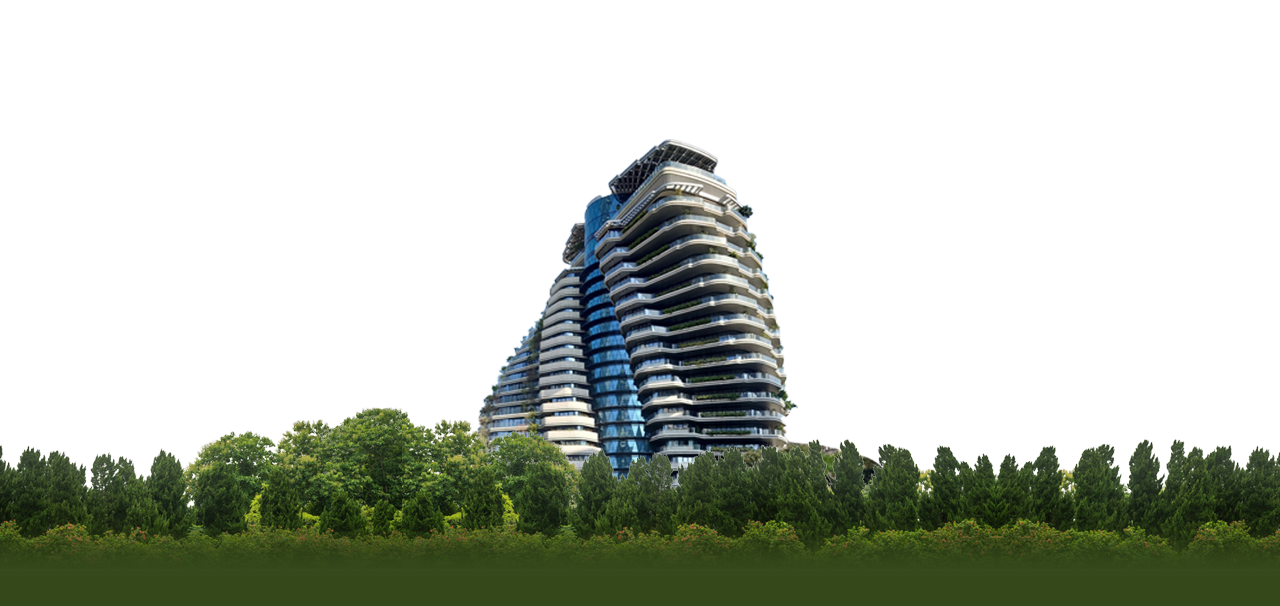
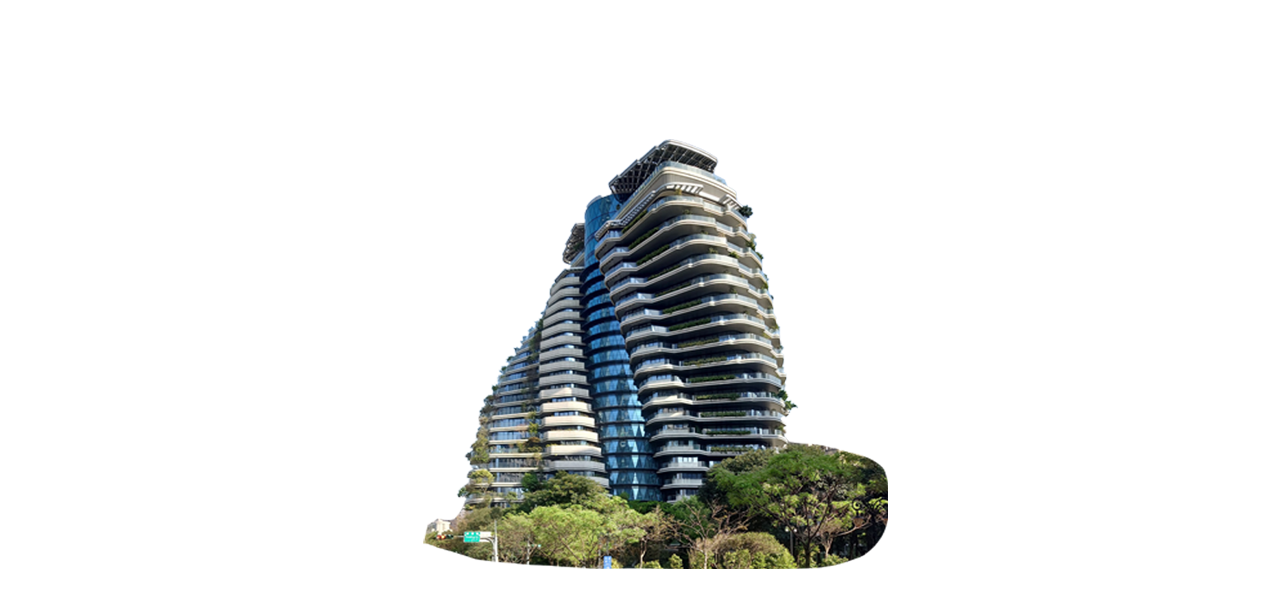
refactor: split header building and trees into separate layers
- Split Header1-Top into Header1-Top (building) and Header1-1-TopTrees (trees)
- Trees stretch full width with object-cover
- Building stays centered with object-contain
- Prevents building distortion when stretching

diff --git a/out/index.html b/out/index.html
@@ -1,6 +1,6 @@
-<!DOCTYPE html><html lang="zh-TW"><head><meta charSet="utf-8"/><meta name="viewport" content="width=device-width, initial-scale=1"/><link rel="preload" as="image" href="/header/Header4-Bottom.png"/><link rel="preload" as="image" href="/header/Header1-Top.png"/><link rel="preload" as="image" href="/header/Header3-Text.png"/><link rel="preload" as="image" href="/header/Header2-CTA.png"/><link rel="preload" as="image" href="/header/mobile/mHeader4-Bottom.png"/><link rel="preload" as="image" href="/header/mobile/mHeader1-Top.png"/><link rel="preload" as="image" href="/header/mobile/mHeader3-Text.png"/><link rel="preload" as="image" href="/header/mobile/mHeader2-CTA.png"/><link rel="stylesheet" href="/_next/static/css/6be26da21b6315d6.css" data-precedence="next"/><link rel="preload" as="script" fetchPriority="low" href="/_next/static/chunks/webpack-c8441f2d519541e3.js"/><script src="/_next/static/chunks/fd9d1056-87da80e0c187477b.js" async=""></script><script src="/_next/static/chunks/117-632973ba55688f62.js" async=""></script><script src="/_next/static/chunks/main-app-b4bacf65461df947.js" async=""></script><script src="/_next/static/chunks/app/page-3c75d446f0727e7b.js" async=""></script><title>救救2515 - 翻轉中工</title><meta name="description" content="以實際行動翻轉經營，強化公司治理，並提升營運績效"/><script src="/_next/static/chunks/polyfills-42372ed130431b0a.js" noModule=""></script></head><body><main class="min-h-screen bg-white"><section class="relative w-full transition-opacity duration-[800ms]" style="opacity:0"><div class="hidden md:block relative w-full" style="aspect-ratio:1268 / 460"><img src="/header/Header4-Bottom.png" alt="Background" class="absolute top-0 left-0 w-full h-full" style="object-fit:fill"/><img src="/header/Header1-Top.png" alt="Foreground" class="absolute top-0 left-0 w-full h-full" style="object-fit:fill"/><img src="/header/Header3-Text.png" alt="Title" class="absolute top-0 left-0 w-full h-full" style="object-fit:fill"/><img src="/header/Header2-CTA.png" alt="CTA" class="absolute top-0 left-0 w-full h-full" style="object-fit:fill"/></div><div class="md:hidden relative w-full"><img src="/header/mobile/mHeader4-Bottom.png" alt="Background" class="w-full block"/><img src="/header/mobile/mHeader1-Top.png" alt="Foreground" class="absolute top-0 left-0 w-full"/><img src="/header/mobile/mHeader3-Text.png" alt="Title" class="absolute top-0 left-0 w-full"/><img src="/header/mobile/mHeader2-CTA.png" alt="CTA" class="absolute top-0 left-0 w-full"/></div></section><section class="w-full" style="background:#0a1628"><div class="w-full grid md:grid-cols-2"><div class="px-8 py-10 md:px-16 md:py-12" style="background:radial-gradient(ellipse 140px 70px at 15% 20%, rgba(255,255,255,0.75) 0%, transparent 65%),
-              radial-gradient(ellipse 90px 45px at 32% 15%, rgba(255,255,255,0.55) 0%, transparent 65%),
-              radial-gradient(ellipse 110px 55px at 65% 35%, rgba(255,255,255,0.45) 0%, transparent 65%),
-              radial-gradient(ellipse 70px 35px at 80% 20%, rgba(255,255,255,0.5) 0%, transparent 65%),
-              radial-gradient(ellipse 80px 40px at 50% 60%, rgba(255,255,255,0.3) 0%, transparent 65%),
-              linear-gradient(180deg, #6bb8d8 0%, #9dd0e8 50%, #b8dff0 100%)"><p class="font-bold leading-snug mb-4" style="font-size:clamp(18px, 2.2vw, 26px);color:#0d2a4a">寶佳入主華建後<br/>改善經營股價翻倍</p><p class="font-black leading-none" style="color:#1a3f6e;font-size:clamp(80px, 13vw, 110px)">0<!-- -->%</p><p class="mt-3 text-sm" style="color:#334455">每股$15至每股$60</p></div><div class="px-8 py-10 md:px-16 md:py-12" style="background:rgba(26, 26, 26, 0.92)"><p class="text-white font-bold leading-snug mb-4" style="font-size:clamp(18px, 2.2vw, 26px)">中工市場派經營不當<br/>過去10年股價平均</p><p class="font-black leading-none" style="color:#4A7FB5;font-size:clamp(80px, 13vw, 110px)">$<!-- -->0.00</p><p class="mt-3 text-sm" style="color:#AAAAAA">2015/11 至 2025/10</p></div></div><div class="w-full py-4 px-4 text-center" style="background:#2E7BBF"><p class="text-white font-black tracking-wide" style="font-size:clamp(20px, 3vw, 30px)">如何選擇，股東的眼睛是雪亮的</p></div></section><section class="w-full py-16 px-4" style="background:linear-gradient(180deg, #dbeafe, #ffffff)"><div class="max-w-3xl mx-auto"><div class="flex items-center gap-4 mb-12"><div class="flex-1 h-px bg-blue-400"></div><h2 class="text-2xl md:text-3xl font-bold text-blue-900 whitespace-nowrap">翻轉中工：加減乘除</h2><div class="flex-1 h-px bg-blue-400"></div></div><div class="space-y-6"><div class="border-l-4 border-blue-600 pl-6 py-4 transition-all duration-700" style="opacity:0;transform:translateY(24px);transition-delay:0ms"><p class="text-lg md:text-xl text-gray-800"><span class="font-bold text-blue-700 text-2xl mr-2">加</span>：<!-- -->加入寶佳專業經營，活化中工</p></div><div class="border-l-4 border-blue-600 pl-6 py-4 transition-all duration-700" style="opacity:0;transform:translateY(24px);transition-delay:150ms"><p class="text-lg md:text-xl text-gray-800"><span class="font-bold text-blue-700 text-2xl mr-2">減</span>：<!-- -->減少既有中工罰款醜習，改善公司治理</p></div><div class="border-l-4 border-blue-600 pl-6 py-4 transition-all duration-700" style="opacity:0;transform:translateY(24px);transition-delay:300ms"><p class="text-lg md:text-xl text-gray-800"><span class="font-bold text-blue-700 text-2xl mr-2">乘</span>：<!-- -->乘倍效應，實現華建中工乘效</p></div><div class="border-l-4 border-blue-600 pl-6 py-4 transition-all duration-700" style="opacity:0;transform:translateY(24px);transition-delay:450ms"><p class="text-lg md:text-xl text-gray-800"><span class="font-bold text-blue-700 text-2xl mr-2">除</span>：<!-- -->去除重大賄賂與爭議事件，維護誠信經營</p></div></div></div></section><footer class="w-full py-12 px-4 text-center" style="background:#0a1628"><div class="max-w-md mx-auto"><img src="/header/mobile/mHeader2-CTA.png" alt="LINE QR Code" class="mx-auto mb-6 w-full max-w-sm object-contain"/><a href="https://line.me/R/ti/p/@452zsagz" target="_blank" rel="noopener noreferrer" class="inline-block bg-green-600 text-white text-sm font-bold px-4 py-1 rounded-full mb-4 hover:bg-green-500 transition-colors">@99-2515</a><p class="text-gray-300 text-sm md:text-base mb-6">以實際行動翻轉經營，強化公司治理，並提升營運績效</p><p class="text-gray-500 text-xs">© 2025 救救2515</p></div></footer></main><script src="/_next/static/chunks/webpack-c8441f2d519541e3.js" async=""></script><script>(self.__next_f=self.__next_f||[]).push([0]);self.__next_f.push([2,null])</script><script>self.__next_f.push([1,"1:HL[\"/_next/static/css/6be26da21b6315d6.css\",\"style\"]\n"])</script><script>self.__next_f.push([1,"2:I[2846,[],\"\"]\n4:I[9107,[],\"ClientPageRoot\"]\n5:I[7340,[\"931\",\"static/chunks/app/page-3c75d446f0727e7b.js\"],\"default\",1]\n6:I[4707,[],\"\"]\n7:I[6423,[],\"\"]\n9:I[1060,[],\"\"]\na:[]\n0:[\"$\",\"$L2\",null,{\"buildId\":\"OLgYKb7otLPdOh0TRo6im\",\"assetPrefix\":\"\",\"urlParts\":[\"\",\"\"],\"initialTree\":[\"\",{\"children\":[\"__PAGE__\",{}]},\"$undefined\",\"$undefined\",true],\"initialSeedData\":[\"\",{\"children\":[\"__PAGE__\",{},[[\"$L3\",[\"$\",\"$L4\",null,{\"props\":{\"params\":{},\"searchParams\":{}},\"Component\":\"$5\"}],null],null],null]},[[[[\"$\",\"link\",\"0\",{\"rel\":\"stylesheet\",\"href\":\"/_next/static/css/6be26da21b6315d6.css\",\"precedence\":\"next\",\"crossOrigin\":\"$undefined\"}]],[\"$\",\"html\",null,{\"lang\":\"zh-TW\",\"children\":[\"$\",\"body\",null,{\"children\":[\"$\",\"$L6\",null,{\"parallelRouterKey\":\"children\",\"segmentPath\":[\"children\"],\"error\":\"$undefined\",\"errorStyles\":\"$undefined\",\"errorScripts\":\"$undefined\",\"template\":[\"$\",\"$L7\",null,{}],\"templateStyles\":\"$undefined\",\"templateScripts\":\"$undefined\",\"notFound\":[[\"$\",\"title\",null,{\"children\":\"404: This page could not be found.\"}],[\"$\",\"div\",null,{\"style\":{\"fontFamily\":\"system-ui,\\\"Segoe UI\\\",Roboto,Helvetica,Arial,sans-serif,\\\"Apple Color Emoji\\\",\\\"Segoe UI Emoji\\\"\",\"height\":\"100vh\",\"textAlign\":\"center\",\"display\":\"flex\",\"flexDirection\":\"column\",\"alignItems\":\"center\",\"justifyContent\":\"center\"},\"children\":[\"$\",\"div\",null,{\"children\":[[\"$\",\"style\",null,{\"dangerouslySetInnerHTML\":{\"__html\":\"body{color:#000;background:#fff;margin:0}.next-error-h1{border-right:1px solid rgba(0,0,0,.3)}@media (prefers-color-scheme:dark){body{color:#fff;background:#000}.next-error-h1{border-right:1px solid rgba(255,255,255,.3)}}\"}}],[\"$\",\"h1\",null,{\"className\":\"next-error-h1\",\"style\":{\"display\":\"inline-block\",\"margin\":\"0 20px 0 0\",\"padding\":\"0 23px 0 0\",\"fontSize\":24,\"fontWeight\":500,\"verticalAlign\":\"top\",\"lineHeight\":\"49px\"},\"children\":\"404\"}],[\"$\",\"div\",null,{\"style\":{\"display\":\"inline-block\"},\"children\":[\"$\",\"h2\",null,{\"style\":{\"fontSize\":14,\"fontWeight\":400,\"lineHeight\":\"49px\",\"margin\":0},\"children\":\"This page could not be found.\"}]}]]}]}]],\"notFoundS"])</script><script>self.__next_f.push([1,"tyles\":[]}]}]}]],null],null],\"couldBeIntercepted\":false,\"initialHead\":[null,\"$L8\"],\"globalErrorComponent\":\"$9\",\"missingSlots\":\"$Wa\"}]\n"])</script><script>self.__next_f.push([1,"8:[[\"$\",\"meta\",\"0\",{\"name\":\"viewport\",\"content\":\"width=device-width, initial-scale=1\"}],[\"$\",\"meta\",\"1\",{\"charSet\":\"utf-8\"}],[\"$\",\"title\",\"2\",{\"children\":\"救救2515 - 翻轉中工\"}],[\"$\",\"meta\",\"3\",{\"name\":\"description\",\"content\":\"以實際行動翻轉經營，強化公司治理，並提升營運績效\"}]]\n3:null\n"])</script></body></html>
+<!DOCTYPE html><html lang="zh-TW"><head><meta charSet="utf-8"/><meta name="viewport" content="width=device-width, initial-scale=1"/><link rel="preload" as="image" href="/header/Header4-Bottom.png"/><link rel="preload" as="image" href="/header/Header1-1-TopTrees.png"/><link rel="preload" as="image" href="/header/Header1-Top.png"/><link rel="preload" as="image" href="/header/Header3-Text.png"/><link rel="preload" as="image" href="/header/Header2-CTA.png"/><link rel="preload" as="image" href="/header/mobile/mHeader4-Bottom.png"/><link rel="preload" as="image" href="/header/mobile/mHeader1-1-TopTrees.png"/><link rel="preload" as="image" href="/header/mobile/mHeader1-Top.png"/><link rel="preload" as="image" href="/header/mobile/mHeader3-Text.png"/><link rel="preload" as="image" href="/header/mobile/mHeader2-CTA.png"/><link rel="stylesheet" href="/_next/static/css/3ccb454d7681a250.css" data-precedence="next"/><link rel="preload" as="script" fetchPriority="low" href="/_next/static/chunks/webpack-c8441f2d519541e3.js"/><script src="/_next/static/chunks/fd9d1056-87da80e0c187477b.js" async=""></script><script src="/_next/static/chunks/117-632973ba55688f62.js" async=""></script><script src="/_next/static/chunks/main-app-b4bacf65461df947.js" async=""></script><script src="/_next/static/chunks/app/page-39596dbca36a8c6d.js" async=""></script><title>救救2515 - 翻轉中工</title><meta name="description" content="以實際行動翻轉經營，強化公司治理，並提升營運績效"/><script src="/_next/static/chunks/polyfills-42372ed130431b0a.js" noModule=""></script></head><body><main class="min-h-screen" style="background:#000"><section class="relative w-full transition-opacity duration-[800ms]" style="opacity:0"><div class="hidden md:block relative w-full" style="aspect-ratio:1268 / 460"><img src="/header/Header4-Bottom.png" alt="Background" class="absolute top-0 left-0 w-full h-full" style="object-fit:fill"/><img src="/header/Header1-1-TopTrees.png" alt="Trees" class="absolute top-0 left-0 w-full h-full object-cover"/><img src="/header/Header1-Top.png" alt="Building" class="absolute top-0 left-0 w-full h-full object-contain"/><img src="/header/Header3-Text.png" alt="Title" class="absolute top-0 left-0 w-full h-full" style="object-fit:fill"/><img src="/header/Header2-CTA.png" alt="CTA" class="absolute top-0 left-0 w-full h-full" style="object-fit:fill"/></div><div class="md:hidden relative w-full"><img src="/header/mobile/mHeader4-Bottom.png" alt="Background" class="w-full block"/><img src="/header/mobile/mHeader1-1-TopTrees.png" alt="Trees" class="absolute top-0 left-0 w-full object-cover" style="height:auto"/><img src="/header/mobile/mHeader1-Top.png" alt="Building" class="absolute top-0 left-1/2 -translate-x-1/2" style="height:auto;max-width:100%"/><img src="/header/mobile/mHeader3-Text.png" alt="Title" class="absolute top-0 left-0 w-full"/><img src="/header/mobile/mHeader2-CTA.png" alt="CTA" class="absolute top-0 left-0 w-full"/></div></section><section style="background:#000"><div class="max-w-[960px] mx-auto"><div class="grid md:grid-cols-2"><div class="px-8 py-10 md:px-16 md:py-12" style="background:radial-gradient(ellipse 140px 70px at 15% 20%, rgba(255,255,255,0.75) 0%, transparent 65%),
+                radial-gradient(ellipse 90px 45px at 32% 15%, rgba(255,255,255,0.55) 0%, transparent 65%),
+                radial-gradient(ellipse 110px 55px at 65% 35%, rgba(255,255,255,0.45) 0%, transparent 65%),
+                radial-gradient(ellipse 70px 35px at 80% 20%, rgba(255,255,255,0.5) 0%, transparent 65%),
+                radial-gradient(ellipse 80px 40px at 50% 60%, rgba(255,255,255,0.3) 0%, transparent 65%),
+                linear-gradient(180deg, #6bb8d8 0%, #9dd0e8 50%, #b8dff0 100%)"><p class="font-bold leading-snug mb-4" style="font-size:clamp(18px, 2.2vw, 26px);color:#0d2a4a">寶佳入主華建後<br/>改善經營股價翻倍</p><p class="font-black leading-none" style="color:#1a3f6e;font-size:clamp(80px, 13vw, 110px)">0<!-- -->%</p><p class="mt-3 text-sm" style="color:#334455">每股$15至每股$60</p></div><div class="px-8 py-10 md:px-16 md:py-12" style="background:#0d1f35"><p class="text-white font-bold leading-snug mb-4" style="font-size:clamp(18px, 2.2vw, 26px)">中工市場派經營不當<br/>過去10年股價平均</p><p class="font-black leading-none" style="color:#4A7FB5;font-size:clamp(80px, 13vw, 110px)">$<!-- -->0.00</p><p class="mt-3 text-sm" style="color:#AAAAAA">2015/11 至 2025/10</p></div></div><div class="py-4 px-4 text-center" style="background:#2E7BBF"><p class="text-white font-black tracking-wide" style="font-size:clamp(20px, 3vw, 30px)">如何選擇，股東的眼睛是雪亮的</p></div></div></section><section class="w-full py-16 px-4" style="background:#000"><div class="max-w-[960px] mx-auto"><div class="flex items-center gap-4 mb-12"><div class="flex-1 h-px bg-blue-700"></div><h2 class="text-2xl md:text-3xl font-bold text-white whitespace-nowrap">翻轉中工：加減乘除</h2><div class="flex-1 h-px bg-blue-700"></div></div><div class="space-y-6"><div class="border-l-4 border-blue-500 pl-6 py-4 transition-all duration-700" style="opacity:0;transform:translateY(24px);transition-delay:0ms"><p class="text-lg md:text-xl text-gray-200"><span class="font-bold text-blue-400 text-2xl mr-2">加</span>：<!-- -->加入寶佳專業經營，活化中工</p></div><div class="border-l-4 border-blue-500 pl-6 py-4 transition-all duration-700" style="opacity:0;transform:translateY(24px);transition-delay:150ms"><p class="text-lg md:text-xl text-gray-200"><span class="font-bold text-blue-400 text-2xl mr-2">減</span>：<!-- -->減少既有中工罰款醜習，改善公司治理</p></div><div class="border-l-4 border-blue-500 pl-6 py-4 transition-all duration-700" style="opacity:0;transform:translateY(24px);transition-delay:300ms"><p class="text-lg md:text-xl text-gray-200"><span class="font-bold text-blue-400 text-2xl mr-2">乘</span>：<!-- -->乘倍效應，實現華建中工乘效</p></div><div class="border-l-4 border-blue-500 pl-6 py-4 transition-all duration-700" style="opacity:0;transform:translateY(24px);transition-delay:450ms"><p class="text-lg md:text-xl text-gray-200"><span class="font-bold text-blue-400 text-2xl mr-2">除</span>：<!-- -->去除重大賄賂與爭議事件，維護誠信經營</p></div></div></div></section><footer style="background:#000"><div class="max-w-[960px] mx-auto py-12 px-4 text-center"><img src="/header/mobile/mHeader2-CTA.png" alt="LINE QR Code" class="mx-auto mb-6 w-full max-w-sm object-contain"/><a href="https://line.me/R/ti/p/@452zsagz" target="_blank" rel="noopener noreferrer" class="inline-block bg-green-600 text-white text-sm font-bold px-4 py-1 rounded-full mb-4 hover:bg-green-500 transition-colors">@99-2515</a><p class="text-gray-300 text-sm md:text-base mb-6">以實際行動翻轉經營，強化公司治理，並提升營運績效</p><p class="text-gray-500 text-xs">© 2025 救救2515</p></div></footer></main><script src="/_next/static/chunks/webpack-c8441f2d519541e3.js" async=""></script><script>(self.__next_f=self.__next_f||[]).push([0]);self.__next_f.push([2,null])</script><script>self.__next_f.push([1,"1:HL[\"/_next/static/css/3ccb454d7681a250.css\",\"style\"]\n"])</script><script>self.__next_f.push([1,"2:I[2846,[],\"\"]\n4:I[9107,[],\"ClientPageRoot\"]\n5:I[7340,[\"931\",\"static/chunks/app/page-39596dbca36a8c6d.js\"],\"default\",1]\n6:I[4707,[],\"\"]\n7:I[6423,[],\"\"]\n9:I[1060,[],\"\"]\na:[]\n0:[\"$\",\"$L2\",null,{\"buildId\":\"vOqCAKKdjOdUJmcnBVQhN\",\"assetPrefix\":\"\",\"urlParts\":[\"\",\"\"],\"initialTree\":[\"\",{\"children\":[\"__PAGE__\",{}]},\"$undefined\",\"$undefined\",true],\"initialSeedData\":[\"\",{\"children\":[\"__PAGE__\",{},[[\"$L3\",[\"$\",\"$L4\",null,{\"props\":{\"params\":{},\"searchParams\":{}},\"Component\":\"$5\"}],null],null],null]},[[[[\"$\",\"link\",\"0\",{\"rel\":\"stylesheet\",\"href\":\"/_next/static/css/3ccb454d7681a250.css\",\"precedence\":\"next\",\"crossOrigin\":\"$undefined\"}]],[\"$\",\"html\",null,{\"lang\":\"zh-TW\",\"children\":[\"$\",\"body\",null,{\"children\":[\"$\",\"$L6\",null,{\"parallelRouterKey\":\"children\",\"segmentPath\":[\"children\"],\"error\":\"$undefined\",\"errorStyles\":\"$undefined\",\"errorScripts\":\"$undefined\",\"template\":[\"$\",\"$L7\",null,{}],\"templateStyles\":\"$undefined\",\"templateScripts\":\"$undefined\",\"notFound\":[[\"$\",\"title\",null,{\"children\":\"404: This page could not be found.\"}],[\"$\",\"div\",null,{\"style\":{\"fontFamily\":\"system-ui,\\\"Segoe UI\\\",Roboto,Helvetica,Arial,sans-serif,\\\"Apple Color Emoji\\\",\\\"Segoe UI Emoji\\\"\",\"height\":\"100vh\",\"textAlign\":\"center\",\"display\":\"flex\",\"flexDirection\":\"column\",\"alignItems\":\"center\",\"justifyContent\":\"center\"},\"children\":[\"$\",\"div\",null,{\"children\":[[\"$\",\"style\",null,{\"dangerouslySetInnerHTML\":{\"__html\":\"body{color:#000;background:#fff;margin:0}.next-error-h1{border-right:1px solid rgba(0,0,0,.3)}@media (prefers-color-scheme:dark){body{color:#fff;background:#000}.next-error-h1{border-right:1px solid rgba(255,255,255,.3)}}\"}}],[\"$\",\"h1\",null,{\"className\":\"next-error-h1\",\"style\":{\"display\":\"inline-block\",\"margin\":\"0 20px 0 0\",\"padding\":\"0 23px 0 0\",\"fontSize\":24,\"fontWeight\":500,\"verticalAlign\":\"top\",\"lineHeight\":\"49px\"},\"children\":\"404\"}],[\"$\",\"div\",null,{\"style\":{\"display\":\"inline-block\"},\"children\":[\"$\",\"h2\",null,{\"style\":{\"fontSize\":14,\"fontWeight\":400,\"lineHeight\":\"49px\",\"margin\":0},\"children\":\"This page could not be found.\"}]}]]}]}]],\"notFoundS"])</script><script>self.__next_f.push([1,"tyles\":[]}]}]}]],null],null],\"couldBeIntercepted\":false,\"initialHead\":[null,\"$L8\"],\"globalErrorComponent\":\"$9\",\"missingSlots\":\"$Wa\"}]\n"])</script><script>self.__next_f.push([1,"8:[[\"$\",\"meta\",\"0\",{\"name\":\"viewport\",\"content\":\"width=device-width, initial-scale=1\"}],[\"$\",\"meta\",\"1\",{\"charSet\":\"utf-8\"}],[\"$\",\"title\",\"2\",{\"children\":\"救救2515 - 翻轉中工\"}],[\"$\",\"meta\",\"3\",{\"name\":\"description\",\"content\":\"以實際行動翻轉經營，強化公司治理，並提升營運績效\"}]]\n3:null\n"])</script></body></html>

diff --git a/out/404.html b/out/404.html
@@ -1,1 +1,1 @@
-<!DOCTYPE html><html lang="zh-TW"><head><meta charSet="utf-8"/><meta name="viewport" content="width=device-width, initial-scale=1"/><link rel="stylesheet" href="/_next/static/css/6be26da21b6315d6.css" data-precedence="next"/><link rel="preload" as="script" fetchPriority="low" href="/_next/static/chunks/webpack-c8441f2d519541e3.js"/><script src="/_next/static/chunks/fd9d1056-87da80e0c187477b.js" async=""></script><script src="/_next/static/chunks/117-632973ba55688f62.js" async=""></script><script src="/_next/static/chunks/main-app-b4bacf65461df947.js" async=""></script><meta name="robots" content="noindex"/><title>404: This page could not be found.</title><title>救救2515 - 翻轉中工</title><meta name="description" content="以實際行動翻轉經營，強化公司治理，並提升營運績效"/><script src="/_next/static/chunks/polyfills-42372ed130431b0a.js" noModule=""></script></head><body><div style="font-family:system-ui,&quot;Segoe UI&quot;,Roboto,Helvetica,Arial,sans-serif,&quot;Apple Color Emoji&quot;,&quot;Segoe UI Emoji&quot;;height:100vh;text-align:center;display:flex;flex-direction:column;align-items:center;justify-content:center"><div><style>body{color:#000;background:#fff;margin:0}.next-error-h1{border-right:1px solid rgba(0,0,0,.3)}@media (prefers-color-scheme:dark){body{color:#fff;background:#000}.next-error-h1{border-right:1px solid rgba(255,255,255,.3)}}</style><h1 class="next-error-h1" style="display:inline-block;margin:0 20px 0 0;padding:0 23px 0 0;font-size:24px;font-weight:500;vertical-align:top;line-height:49px">404</h1><div style="display:inline-block"><h2 style="font-size:14px;font-weight:400;line-height:49px;margin:0">This page could not be found.</h2></div></div></div><script src="/_next/static/chunks/webpack-c8441f2d519541e3.js" async=""></script><script>(self.__next_f=self.__next_f||[]).push([0]);self.__next_f.push([2,null])</script><script>self.__next_f.push([1,"1:HL[\"/_next/static/css/6be26da21b6315d6.css\",\"style\"]\n"])</script><script>self.__next_f.push([1,"2:I[2846,[],\"\"]\n4:I[4707,[],\"\"]\n5:I[6423,[],\"\"]\nb:I[1060,[],\"\"]\n6:{\"fontFamily\":\"system-ui,\\\"Segoe UI\\\",Roboto,Helvetica,Arial,sans-serif,\\\"Apple Color Emoji\\\",\\\"Segoe UI Emoji\\\"\",\"height\":\"100vh\",\"textAlign\":\"center\",\"display\":\"flex\",\"flexDirection\":\"column\",\"alignItems\":\"center\",\"justifyContent\":\"center\"}\n7:{\"display\":\"inline-block\",\"margin\":\"0 20px 0 0\",\"padding\":\"0 23px 0 0\",\"fontSize\":24,\"fontWeight\":500,\"verticalAlign\":\"top\",\"lineHeight\":\"49px\"}\n8:{\"display\":\"inline-block\"}\n9:{\"fontSize\":14,\"fontWeight\":400,\"lineHeight\":\"49px\",\"margin\":0}\nc:[]\n"])</script><script>self.__next_f.push([1,"0:[\"$\",\"$L2\",null,{\"buildId\":\"OLgYKb7otLPdOh0TRo6im\",\"assetPrefix\":\"\",\"urlParts\":[\"\",\"_not-found\"],\"initialTree\":[\"\",{\"children\":[\"/_not-found\",{\"children\":[\"__PAGE__\",{}]}]},\"$undefined\",\"$undefined\",true],\"initialSeedData\":[\"\",{\"children\":[\"/_not-found\",{\"children\":[\"__PAGE__\",{},[[\"$L3\",[[\"$\",\"title\",null,{\"children\":\"404: This page could not be found.\"}],[\"$\",\"div\",null,{\"style\":{\"fontFamily\":\"system-ui,\\\"Segoe UI\\\",Roboto,Helvetica,Arial,sans-serif,\\\"Apple Color Emoji\\\",\\\"Segoe UI Emoji\\\"\",\"height\":\"100vh\",\"textAlign\":\"center\",\"display\":\"flex\",\"flexDirection\":\"column\",\"alignItems\":\"center\",\"justifyContent\":\"center\"},\"children\":[\"$\",\"div\",null,{\"children\":[[\"$\",\"style\",null,{\"dangerouslySetInnerHTML\":{\"__html\":\"body{color:#000;background:#fff;margin:0}.next-error-h1{border-right:1px solid rgba(0,0,0,.3)}@media (prefers-color-scheme:dark){body{color:#fff;background:#000}.next-error-h1{border-right:1px solid rgba(255,255,255,.3)}}\"}}],[\"$\",\"h1\",null,{\"className\":\"next-error-h1\",\"style\":{\"display\":\"inline-block\",\"margin\":\"0 20px 0 0\",\"padding\":\"0 23px 0 0\",\"fontSize\":24,\"fontWeight\":500,\"verticalAlign\":\"top\",\"lineHeight\":\"49px\"},\"children\":\"404\"}],[\"$\",\"div\",null,{\"style\":{\"display\":\"inline-block\"},\"children\":[\"$\",\"h2\",null,{\"style\":{\"fontSize\":14,\"fontWeight\":400,\"lineHeight\":\"49px\",\"margin\":0},\"children\":\"This page could not be found.\"}]}]]}]}]],null],null],null]},[null,[\"$\",\"$L4\",null,{\"parallelRouterKey\":\"children\",\"segmentPath\":[\"children\",\"/_not-found\",\"children\"],\"error\":\"$undefined\",\"errorStyles\":\"$undefined\",\"errorScripts\":\"$undefined\",\"template\":[\"$\",\"$L5\",null,{}],\"templateStyles\":\"$undefined\",\"templateScripts\":\"$undefined\",\"notFound\":\"$undefined\",\"notFoundStyles\":\"$undefined\"}]],null]},[[[[\"$\",\"link\",\"0\",{\"rel\":\"stylesheet\",\"href\":\"/_next/static/css/6be26da21b6315d6.css\",\"precedence\":\"next\",\"crossOrigin\":\"$undefined\"}]],[\"$\",\"html\",null,{\"lang\":\"zh-TW\",\"children\":[\"$\",\"body\",null,{\"children\":[\"$\",\"$L4\",null,{\"parallelRouterKey\":\"children\",\"segmentPath\":[\"children\"],\"error\":\"$undefined\",\"errorStyles\":\"$undefined\",\"errorScripts\":\"$undefined\",\"template\":[\"$\",\"$L5\",null,{}],\"templateStyles\":\"$undefined\",\"templateScripts\":\"$undefined\",\"notFound\":[[\"$\",\"title\",null,{\"children\":\"404: This page could not be found.\"}],[\"$\",\"div\",null,{\"style\":\"$6\",\"children\":[\"$\",\"div\",null,{\"children\":[[\"$\",\"style\",null,{\"dangerouslySetInnerHTML\":{\"__html\":\"body{color:#000;background:#fff;margin:0}.next-error-h1{border-right:1px solid rgba(0,0,0,.3)}@media (prefers-color-scheme:dark){body{color:#fff;background:#000}.next-error-h1{border-right:1px solid rgba(255,255,255,.3)}}\"}}],[\"$\",\"h1\",null,{\"className\":\"next-error-h1\",\"style\":\"$7\",\"children\":\"404\"}],[\"$\",\"div\",null,{\"style\":\"$8\",\"children\":[\"$\",\"h2\",null,{\"style\":\"$9\",\"children\":\"This page could not be found.\"}]}]]}]}]],\"notFoundStyles\":[]}]}]}]],null],null],\"couldBeIntercepted\":false,\"initialHead\":[[\"$\",\"meta\",null,{\"name\":\"robots\",\"content\":\"noindex\"}],\"$La\"],\"globalErrorComponent\":\"$b\",\"missingSlots\":\"$Wc\"}]\n"])</script><script>self.__next_f.push([1,"a:[[\"$\",\"meta\",\"0\",{\"name\":\"viewport\",\"content\":\"width=device-width, initial-scale=1\"}],[\"$\",\"meta\",\"1\",{\"charSet\":\"utf-8\"}],[\"$\",\"title\",\"2\",{\"children\":\"救救2515 - 翻轉中工\"}],[\"$\",\"meta\",\"3\",{\"name\":\"description\",\"content\":\"以實際行動翻轉經營，強化公司治理，並提升營運績效\"}]]\n3:null\n"])</script></body></html>
+<!DOCTYPE html><html lang="zh-TW"><head><meta charSet="utf-8"/><meta name="viewport" content="width=device-width, initial-scale=1"/><link rel="stylesheet" href="/_next/static/css/3ccb454d7681a250.css" data-precedence="next"/><link rel="preload" as="script" fetchPriority="low" href="/_next/static/chunks/webpack-c8441f2d519541e3.js"/><script src="/_next/static/chunks/fd9d1056-87da80e0c187477b.js" async=""></script><script src="/_next/static/chunks/117-632973ba55688f62.js" async=""></script><script src="/_next/static/chunks/main-app-b4bacf65461df947.js" async=""></script><meta name="robots" content="noindex"/><title>404: This page could not be found.</title><title>救救2515 - 翻轉中工</title><meta name="description" content="以實際行動翻轉經營，強化公司治理，並提升營運績效"/><script src="/_next/static/chunks/polyfills-42372ed130431b0a.js" noModule=""></script></head><body><div style="font-family:system-ui,&quot;Segoe UI&quot;,Roboto,Helvetica,Arial,sans-serif,&quot;Apple Color Emoji&quot;,&quot;Segoe UI Emoji&quot;;height:100vh;text-align:center;display:flex;flex-direction:column;align-items:center;justify-content:center"><div><style>body{color:#000;background:#fff;margin:0}.next-error-h1{border-right:1px solid rgba(0,0,0,.3)}@media (prefers-color-scheme:dark){body{color:#fff;background:#000}.next-error-h1{border-right:1px solid rgba(255,255,255,.3)}}</style><h1 class="next-error-h1" style="display:inline-block;margin:0 20px 0 0;padding:0 23px 0 0;font-size:24px;font-weight:500;vertical-align:top;line-height:49px">404</h1><div style="display:inline-block"><h2 style="font-size:14px;font-weight:400;line-height:49px;margin:0">This page could not be found.</h2></div></div></div><script src="/_next/static/chunks/webpack-c8441f2d519541e3.js" async=""></script><script>(self.__next_f=self.__next_f||[]).push([0]);self.__next_f.push([2,null])</script><script>self.__next_f.push([1,"1:HL[\"/_next/static/css/3ccb454d7681a250.css\",\"style\"]\n"])</script><script>self.__next_f.push([1,"2:I[2846,[],\"\"]\n4:I[4707,[],\"\"]\n5:I[6423,[],\"\"]\nb:I[1060,[],\"\"]\n6:{\"fontFamily\":\"system-ui,\\\"Segoe UI\\\",Roboto,Helvetica,Arial,sans-serif,\\\"Apple Color Emoji\\\",\\\"Segoe UI Emoji\\\"\",\"height\":\"100vh\",\"textAlign\":\"center\",\"display\":\"flex\",\"flexDirection\":\"column\",\"alignItems\":\"center\",\"justifyContent\":\"center\"}\n7:{\"display\":\"inline-block\",\"margin\":\"0 20px 0 0\",\"padding\":\"0 23px 0 0\",\"fontSize\":24,\"fontWeight\":500,\"verticalAlign\":\"top\",\"lineHeight\":\"49px\"}\n8:{\"display\":\"inline-block\"}\n9:{\"fontSize\":14,\"fontWeight\":400,\"lineHeight\":\"49px\",\"margin\":0}\nc:[]\n"])</script><script>self.__next_f.push([1,"0:[\"$\",\"$L2\",null,{\"buildId\":\"vOqCAKKdjOdUJmcnBVQhN\",\"assetPrefix\":\"\",\"urlParts\":[\"\",\"_not-found\"],\"initialTree\":[\"\",{\"children\":[\"/_not-found\",{\"children\":[\"__PAGE__\",{}]}]},\"$undefined\",\"$undefined\",true],\"initialSeedData\":[\"\",{\"children\":[\"/_not-found\",{\"children\":[\"__PAGE__\",{},[[\"$L3\",[[\"$\",\"title\",null,{\"children\":\"404: This page could not be found.\"}],[\"$\",\"div\",null,{\"style\":{\"fontFamily\":\"system-ui,\\\"Segoe UI\\\",Roboto,Helvetica,Arial,sans-serif,\\\"Apple Color Emoji\\\",\\\"Segoe UI Emoji\\\"\",\"height\":\"100vh\",\"textAlign\":\"center\",\"display\":\"flex\",\"flexDirection\":\"column\",\"alignItems\":\"center\",\"justifyContent\":\"center\"},\"children\":[\"$\",\"div\",null,{\"children\":[[\"$\",\"style\",null,{\"dangerouslySetInnerHTML\":{\"__html\":\"body{color:#000;background:#fff;margin:0}.next-error-h1{border-right:1px solid rgba(0,0,0,.3)}@media (prefers-color-scheme:dark){body{color:#fff;background:#000}.next-error-h1{border-right:1px solid rgba(255,255,255,.3)}}\"}}],[\"$\",\"h1\",null,{\"className\":\"next-error-h1\",\"style\":{\"display\":\"inline-block\",\"margin\":\"0 20px 0 0\",\"padding\":\"0 23px 0 0\",\"fontSize\":24,\"fontWeight\":500,\"verticalAlign\":\"top\",\"lineHeight\":\"49px\"},\"children\":\"404\"}],[\"$\",\"div\",null,{\"style\":{\"display\":\"inline-block\"},\"children\":[\"$\",\"h2\",null,{\"style\":{\"fontSize\":14,\"fontWeight\":400,\"lineHeight\":\"49px\",\"margin\":0},\"children\":\"This page could not be found.\"}]}]]}]}]],null],null],null]},[null,[\"$\",\"$L4\",null,{\"parallelRouterKey\":\"children\",\"segmentPath\":[\"children\",\"/_not-found\",\"children\"],\"error\":\"$undefined\",\"errorStyles\":\"$undefined\",\"errorScripts\":\"$undefined\",\"template\":[\"$\",\"$L5\",null,{}],\"templateStyles\":\"$undefined\",\"templateScripts\":\"$undefined\",\"notFound\":\"$undefined\",\"notFoundStyles\":\"$undefined\"}]],null]},[[[[\"$\",\"link\",\"0\",{\"rel\":\"stylesheet\",\"href\":\"/_next/static/css/3ccb454d7681a250.css\",\"precedence\":\"next\",\"crossOrigin\":\"$undefined\"}]],[\"$\",\"html\",null,{\"lang\":\"zh-TW\",\"children\":[\"$\",\"body\",null,{\"children\":[\"$\",\"$L4\",null,{\"parallelRouterKey\":\"children\",\"segmentPath\":[\"children\"],\"error\":\"$undefined\",\"errorStyles\":\"$undefined\",\"errorScripts\":\"$undefined\",\"template\":[\"$\",\"$L5\",null,{}],\"templateStyles\":\"$undefined\",\"templateScripts\":\"$undefined\",\"notFound\":[[\"$\",\"title\",null,{\"children\":\"404: This page could not be found.\"}],[\"$\",\"div\",null,{\"style\":\"$6\",\"children\":[\"$\",\"div\",null,{\"children\":[[\"$\",\"style\",null,{\"dangerouslySetInnerHTML\":{\"__html\":\"body{color:#000;background:#fff;margin:0}.next-error-h1{border-right:1px solid rgba(0,0,0,.3)}@media (prefers-color-scheme:dark){body{color:#fff;background:#000}.next-error-h1{border-right:1px solid rgba(255,255,255,.3)}}\"}}],[\"$\",\"h1\",null,{\"className\":\"next-error-h1\",\"style\":\"$7\",\"children\":\"404\"}],[\"$\",\"div\",null,{\"style\":\"$8\",\"children\":[\"$\",\"h2\",null,{\"style\":\"$9\",\"children\":\"This page could not be found.\"}]}]]}]}]],\"notFoundStyles\":[]}]}]}]],null],null],\"couldBeIntercepted\":false,\"initialHead\":[[\"$\",\"meta\",null,{\"name\":\"robots\",\"content\":\"noindex\"}],\"$La\"],\"globalErrorComponent\":\"$b\",\"missingSlots\":\"$Wc\"}]\n"])</script><script>self.__next_f.push([1,"a:[[\"$\",\"meta\",\"0\",{\"name\":\"viewport\",\"content\":\"width=device-width, initial-scale=1\"}],[\"$\",\"meta\",\"1\",{\"charSet\":\"utf-8\"}],[\"$\",\"title\",\"2\",{\"children\":\"救救2515 - 翻轉中工\"}],[\"$\",\"meta\",\"3\",{\"name\":\"description\",\"content\":\"以實際行動翻轉經營，強化公司治理，並提升營運績效\"}]]\n3:null\n"])</script></body></html>

diff --git a/app/page.tsx b/app/page.tsx
@@ -61,13 +61,6 @@ function HeroSection() {
   const [mounted, setMounted] = useState(false);
   useEffect(() => setMounted(true), []);
 
-  const layers = [
-    { desktop: '/header/Header4-Bottom.png', mobile: '/header/mobile/mHeader4-Bottom.png', alt: 'Background' },
-    { desktop: '/header/Header1-Top.png', mobile: '/header/mobile/mHeader1-Top.png', alt: 'Foreground' },
-    { desktop: '/header/Header3-Text.png', mobile: '/header/mobile/mHeader3-Text.png', alt: 'Title' },
-    { desktop: '/header/Header2-CTA.png', mobile: '/header/mobile/mHeader2-CTA.png', alt: 'CTA' },
-  ];
-
   return (
     <section
       className="relative w-full transition-opacity duration-[800ms]"
@@ -75,15 +68,39 @@ function HeroSection() {
     >
       {/* Desktop */}
       <div className="hidden md:block relative w-full" style={{ aspectRatio: '1268 / 460' }}>
-        {layers.map((layer, i) => (
-          <img
-            key={i}
-            src={layer.desktop}
-            alt={layer.alt}
-            className="absolute top-0 left-0 w-full h-full"
-            style={{ objectFit: 'fill' }}
-          />
-        ))}
+        {/* Background */}
+        <img
+          src="/header/Header4-Bottom.png"
+          alt="Background"
+          className="absolute top-0 left-0 w-full h-full"
+          style={{ objectFit: 'fill' }}
+        />
+        {/* Trees - stretch full width */}
+        <img
+          src="/header/Header1-1-TopTrees.png"
+          alt="Trees"
+          className="absolute top-0 left-0 w-full h-full object-cover"
+        />
+        {/* Building - centered, maintain aspect ratio */}
+        <img
+          src="/header/Header1-Top.png"
+          alt="Building"
+          className="absolute top-0 left-0 w-full h-full object-contain"
+        />
+        {/* Text */}
+        <img
+          src="/header/Header3-Text.png"
+          alt="Title"
+          className="absolute top-0 left-0 w-full h-full"
+          style={{ objectFit: 'fill' }}
+        />
+        {/* CTA */}
+        <img
+          src="/header/Header2-CTA.png"
+          alt="CTA"
+          className="absolute top-0 left-0 w-full h-full"
+          style={{ objectFit: 'fill' }}
+        />
       </div>
       {/* Mobile */}
       <div className="md:hidden relative w-full">
@@ -92,7 +109,20 @@ function HeroSection() {
           alt="Background"
           className="w-full block"
         />
-        <img src="/header/mobile/mHeader1-Top.png" alt="Foreground" className="absolute top-0 left-0 w-full" />
+        {/* Trees - stretch full width */}
+        <img
+          src="/header/mobile/mHeader1-1-TopTrees.png"
+          alt="Trees"
+          className="absolute top-0 left-0 w-full object-cover"
+          style={{ height: 'auto' }}
+        />
+        {/* Building - centered */}
+        <img
+          src="/header/mobile/mHeader1-Top.png"
+          alt="Building"
+          className="absolute top-0 left-1/2 -translate-x-1/2"
+          style={{ height: 'auto', maxWidth: '100%' }}
+        />
         <img src="/header/mobile/mHeader3-Text.png" alt="Title" className="absolute top-0 left-0 w-full" />
         <img src="/header/mobile/mHeader2-CTA.png" alt="CTA" className="absolute top-0 left-0 w-full" />
       </div>
